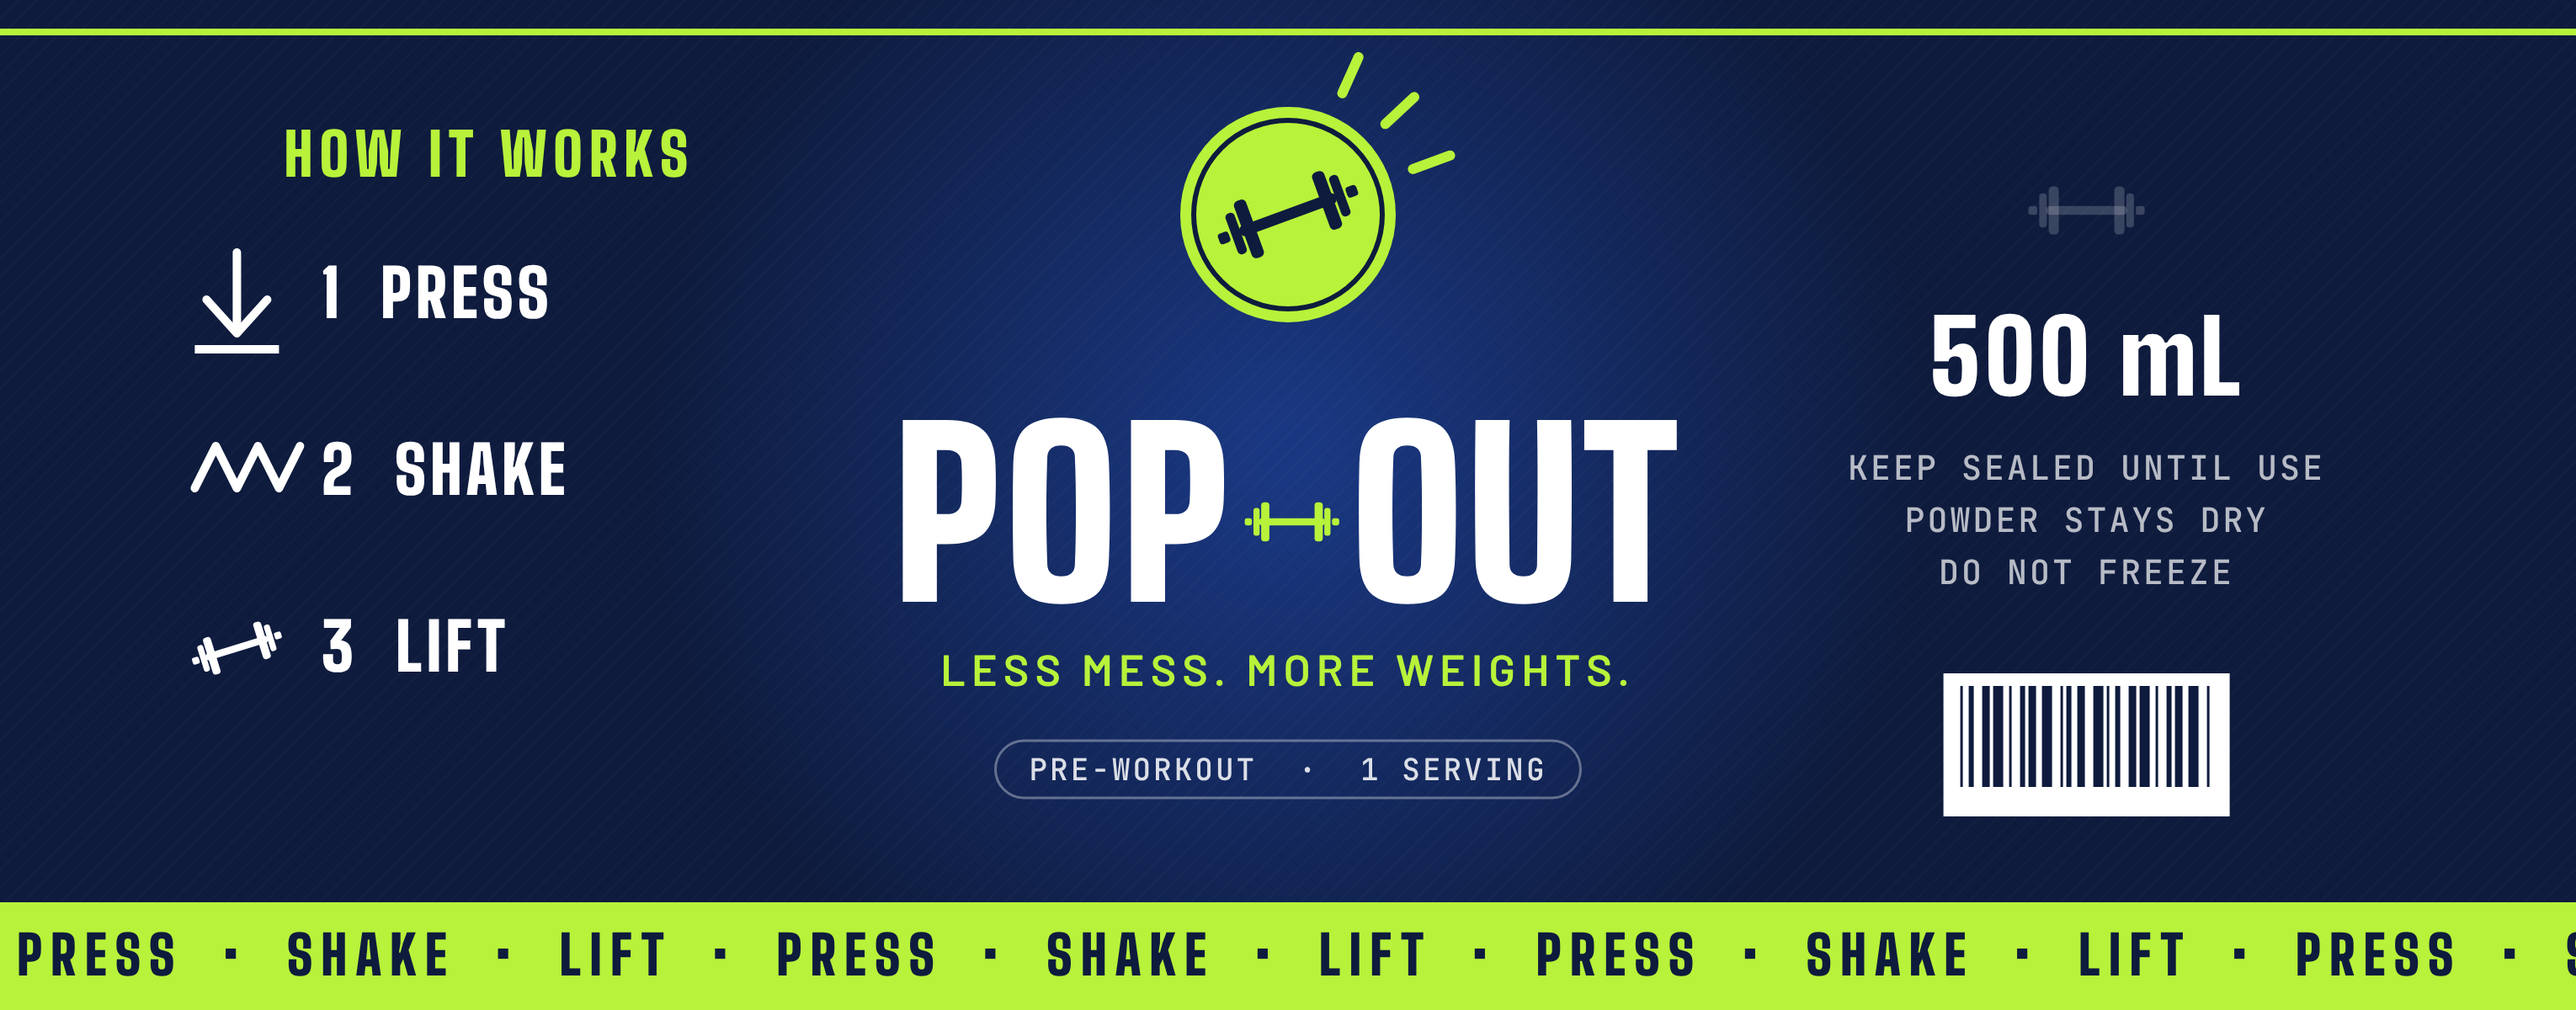
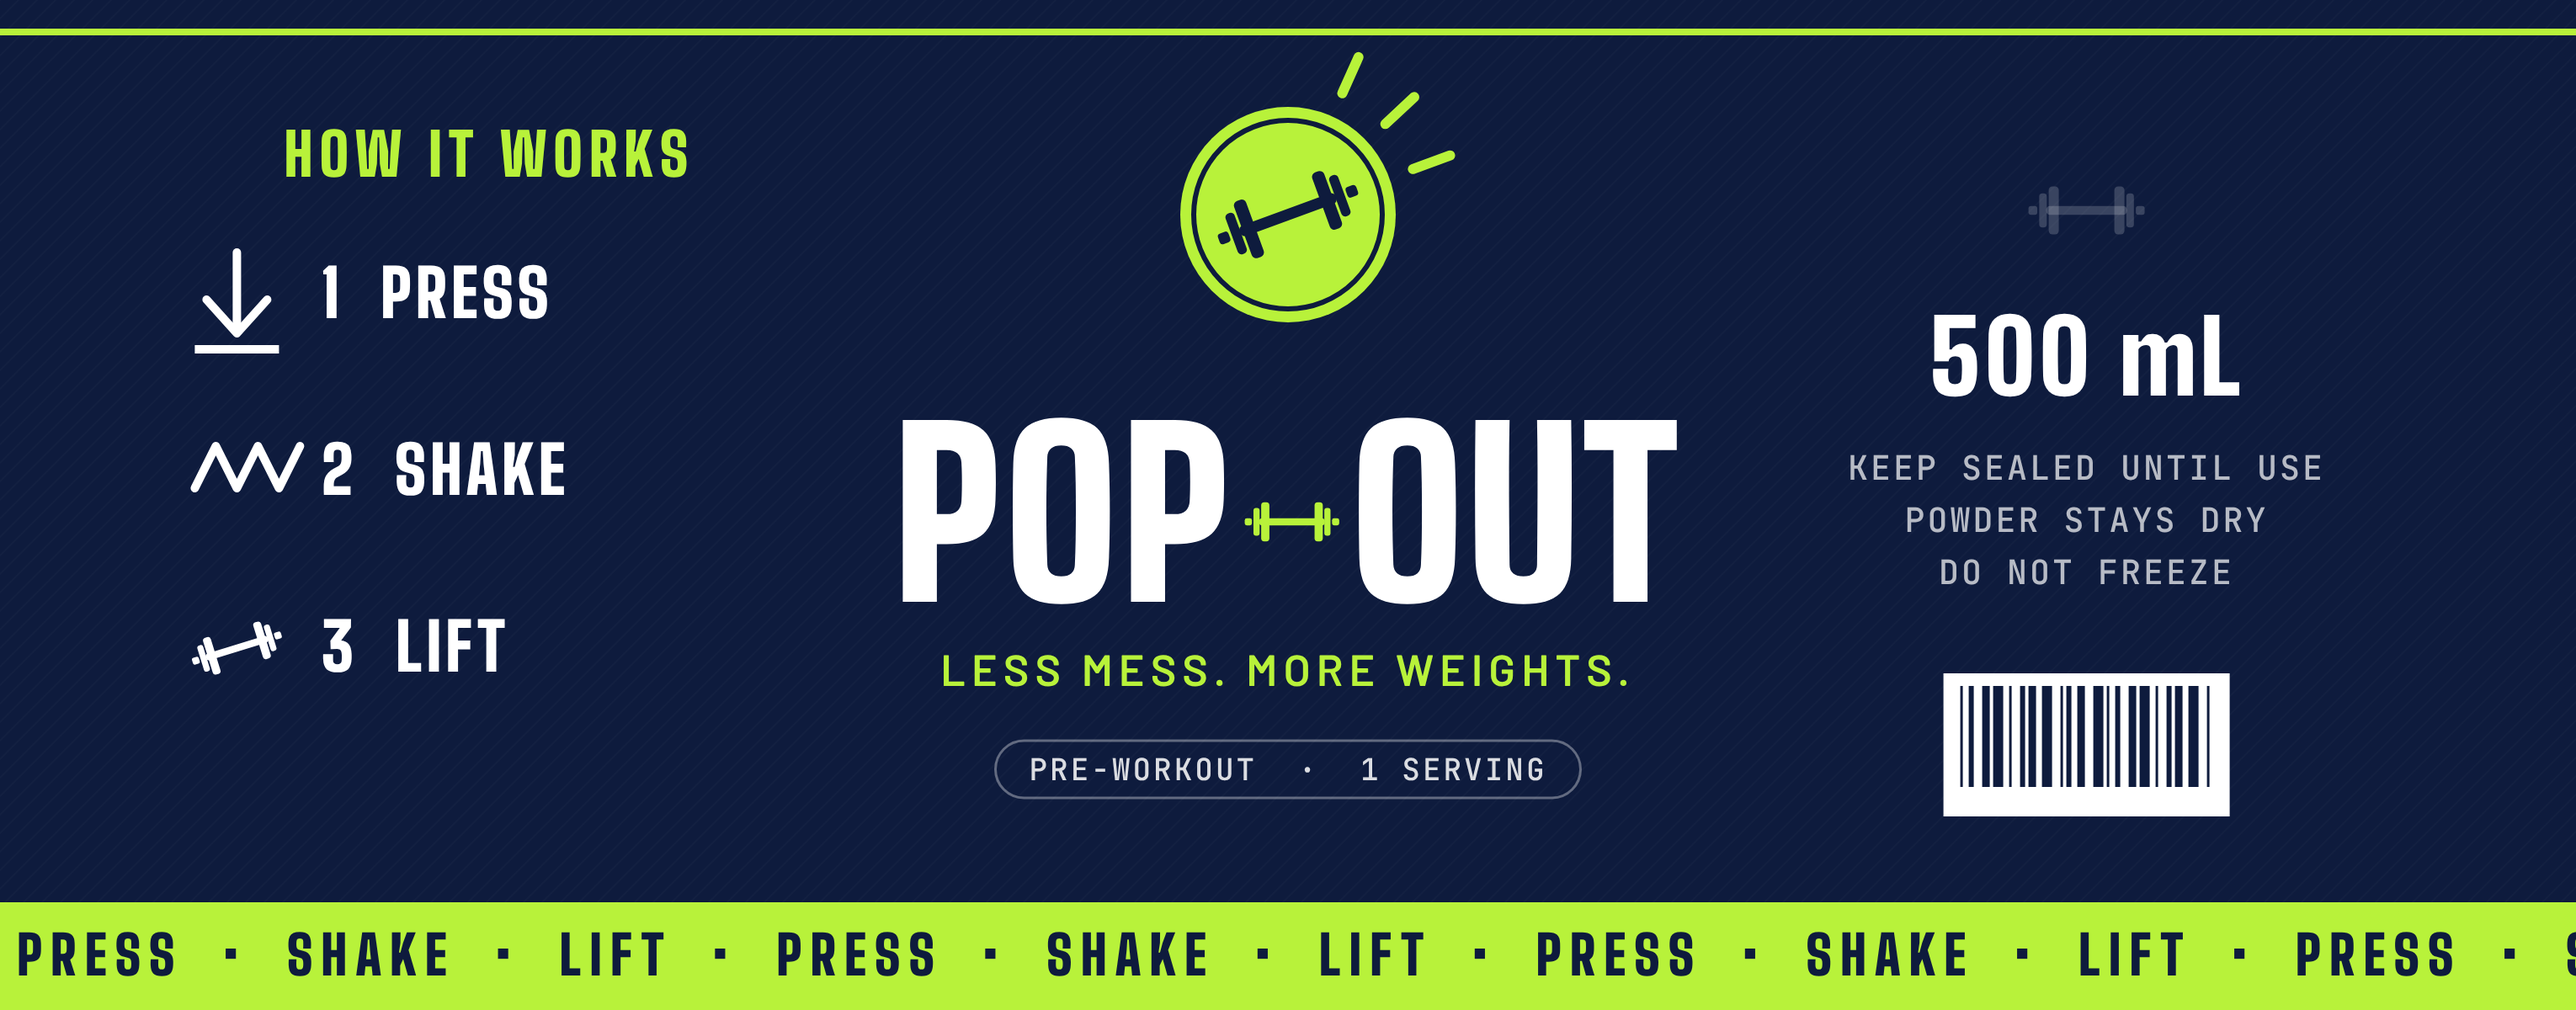
Label: remove the center glow for an even navy background
Claude-Session: https://claude.ai/code/session_01HKgMdUemj1D27z5L81zJxk

Changed region(s): [[0.3105, 0.0308, 0.683, 0.8633]]

diff --git a/bottle-cap-prototype/pitch-deck/project/slides/cover.html b/bottle-cap-prototype/pitch-deck/project/slides/cover.html
@@ -1,5 +1,5 @@
 <section id="cover" style="justify-content:center; gap:40px;">
-<img src="/_blob/fd7ff87114a8525d6b4f92d0eb3c2b75" alt="POP-OUT bottle with green powder sealed in the cap and the navy and lime POP-OUT label" style="position:absolute; left:1340px; top:40px; width:262px; height:1000px; object-fit:contain;">
+<img src="/_blob/0896581daca4396ee20cae6d57fa3849" alt="POP-OUT bottle with green powder sealed in the cap and the navy and lime POP-OUT label" style="position:absolute; left:1340px; top:40px; width:262px; height:1000px; object-fit:contain;">
 <p class="eyebrow in" style="--i:0">POP-OUT · pre-workout, sealed in the cap</p>
 <h1 class="in" style="--i:1; width:1100px; font-family:var(--display); font-weight:900; font-size:120px; line-height:0.95; text-transform:uppercase; letter-spacing:1px;">Your pre-workout is either in a bag, or watered down.</h1>
 <p class="tagline in" style="--i:2; width:1100px;">Less mess. More weights.</p>

diff --git a/bottle-cap-prototype/viewer.html b/bottle-cap-prototype/viewer.html
@@ -292,7 +292,7 @@ code { font-family: var(--mono); font-size: 12px; color: var(--fg); }
     const sp = v => { if ('letterSpacing' in g) g.letterSpacing = v; };
     // matte black base with a soft spotlight behind the front panel
     g.fillStyle = DARK; g.fillRect(0, 0, W, H);
-    const glow = g.createRadialGradient(cx, H * 0.45, 40, cx, H * 0.45, 760); glow.addColorStop(0, 'rgba(47,107,255,.35)'); glow.addColorStop(1, 'rgba(47,107,255,0)');
+    const glow = g.createRadialGradient(cx, H * 0.45, 40, cx, H * 0.45, 760); glow.addColorStop(0, 'rgba(47,107,255,0)'); glow.addColorStop(1, 'rgba(47,107,255,0)');
     g.fillStyle = glow; g.fillRect(0, 0, W, H);
     // fine diagonal texture
     g.strokeStyle = 'rgba(255,255,255,.025)'; g.lineWidth = 2;
